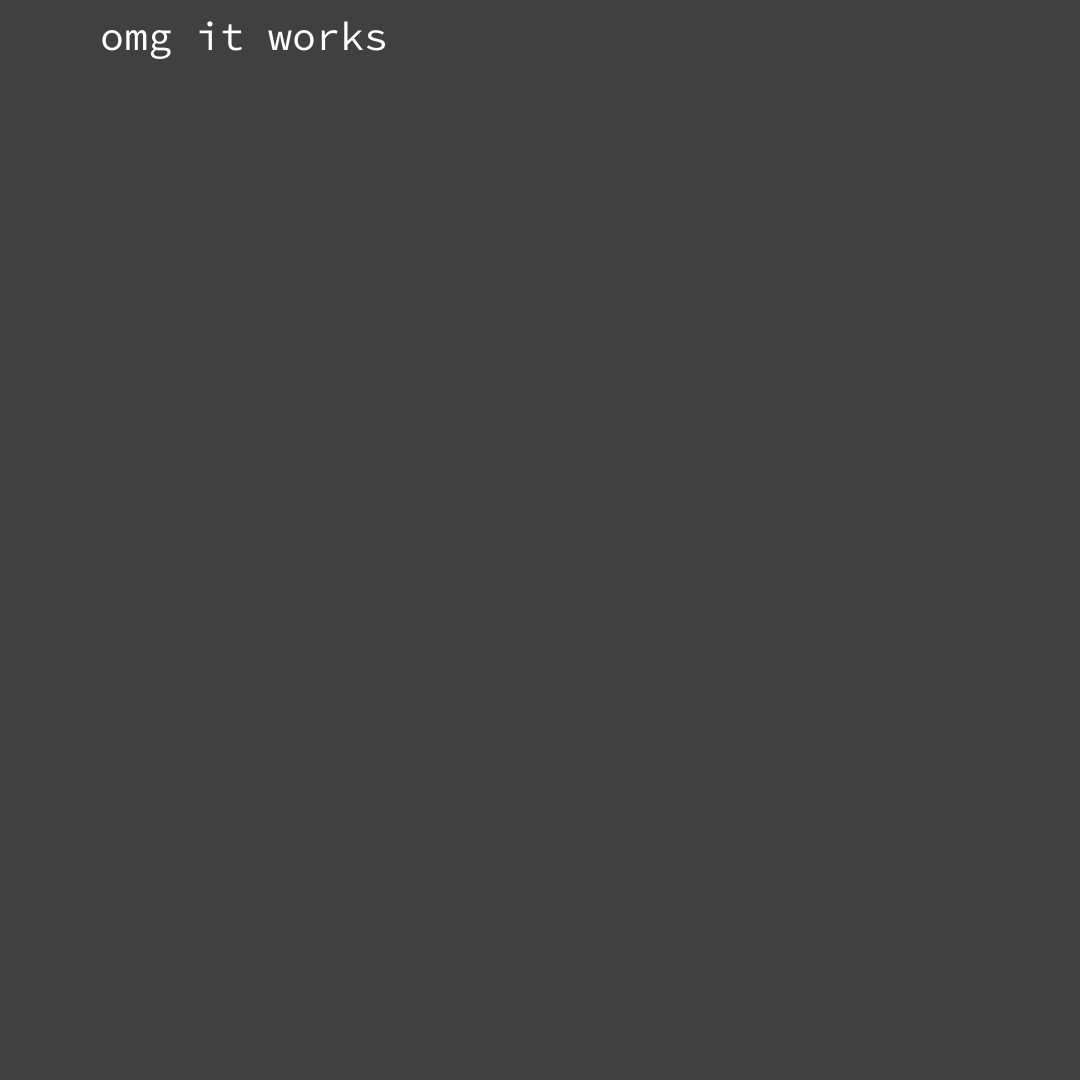
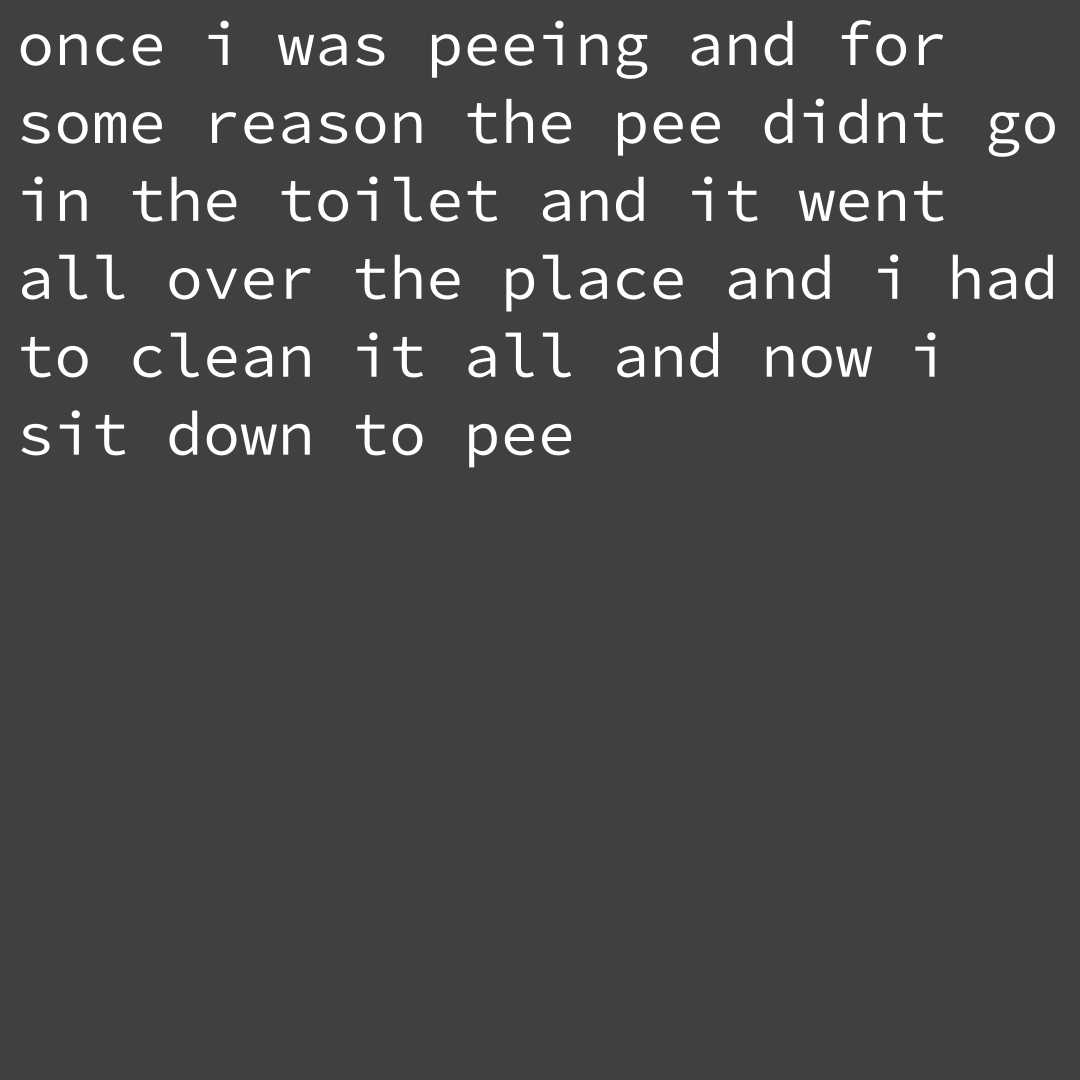
final formatting

diff --git a/server.js b/server.js
@@ -5,6 +5,7 @@ var app = express();
 var http = require('http').Server(app);
 var io = require('socket.io')(http);
 var sleep = require('sleep');
+var wrap = require('word-wrap');
 var Client = require('instagram-private-api').V1;
 var device = new Client.Device('bogdan.stencil');
 var storage = new Client.CookieFileStorage(__dirname + '/cookies/bogdan.json');
@@ -17,11 +18,12 @@ const ctx = canvas.getContext('2d');
 app.use('/public', express.static('public'));
 
 function createImage(text) {
+  formatted = wrap(text, {indent: '', width: 28});
   ctx.fillStyle = '#404040';
   ctx.fillRect(0, 0, 1080, 1080);
-  ctx.font = '40px "SourceCodePro"';
+  ctx.font = '62px "SourceCodePro"';
   ctx.fillStyle = '#FFF';
-  ctx.fillText(text, 100, 50);
+  ctx.fillText(formatted, 17, 65);
 
   var buf = canvas.toBuffer();
   fs.writeFileSync("test.png", buf);
@@ -58,7 +60,6 @@ function publish() {
   var contents = fs.readFileSync('./submission.txt', 'utf-8');
   if (contents.length != 0) {
     var data = getData();
-    console.log("Data: " + data);
     Client.Session.create(device, storage, 'bogdan.stencil', process.env.BOGDAN_PASSWORD)
       .then(function(session) {
         Client.Upload.photo(session, './test.jpeg')
@@ -73,7 +74,7 @@ function publish() {
 
       clearData();
   }
-} setInterval(publish, 5000);
+} setInterval(publish, 1000);
 
 publish();
 

diff --git a/index.html b/index.html
@@ -62,7 +62,7 @@
 
           <div class="mastfoot">
             <div class="inner">
-              <p>Made with ❤</p>
+              <p>Made with ❤ by the students of West Side</p>
             </div>
           </div>
 
